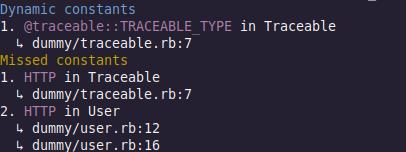
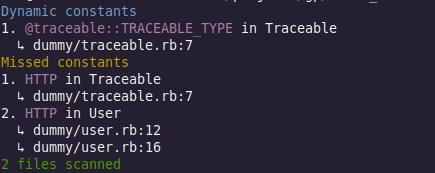
beautify task output

diff --git a/lib/const_stricter/version.rb b/lib/const_stricter/version.rb
@@ -1,3 +1,3 @@
 module ConstStricter
-  VERSION = "1.1.1"
+  VERSION = "1.1.2"
 end
